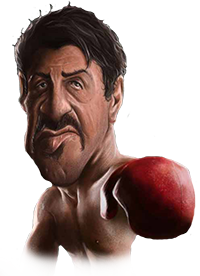
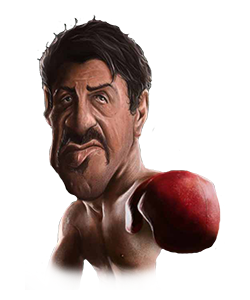
Added new changes to select menu

diff --git a/Project 2 Game/Project 2 Game/main.py b/Project 2 Game/Project 2 Game/main.py
@@ -202,18 +202,21 @@ pawns =     {1:pawnload('Images/Blue.png'), 2:pawnload('Images/Red.png'), 3:pawn
 dice =      {1:diceload('Images/Die-1.png'), 2:diceload('Images/Die-2.png'), 3:diceload('Images/Die-3.png'), 4:diceload('Images/Die-4.png'), 5:diceload('Images/Die-5.png'), 6:diceload('Images/Die-6.png')}
 playerImages = {1:playerload('Images/mike.png'), 2:playerload('Images/paquiao.png'), 3:playerload('Images/mohammed.png'), 4:playerload('Images/rocky.png')}
 boardtiles = tiles()
-players =  [Player("Mohammed Ali",100, 15, PlayerCards.MohammedAli,boardtiles[0],"card__mohammed_ali.png", "mohammed.png", "mohammed.png"),
-            Player("Manny Pecquiao",100, 15, PlayerCards.MannyPecquiao,boardtiles[0],"card__manny_pecquiao.png","face__manny_pecquiao.jpg", "paquiao.png"),
-            Player("Mike Tysen",100, 15, PlayerCards.MikeTysen,boardtiles[0],"card__mike_tysen.png","face__mike_tysen.jpg", "mike.png"),
-            Player("Rocky Belboa",100,15,PlayerCards.RockyBelboa,boardtiles[0],"card__rocky_belboa.png","face__rocky_belboa.jpg", "rocky.png")]
+players =  [Player("Mohammed Ali",100, 15, PlayerCards.MohammedAli,boardtiles[0],"card__mohammed_ali.png", "mohammed.png", "muhammed_ali.png", "MuhammedGlow.png"),
+            Player("Manny Pecquiao",100, 15, PlayerCards.MannyPecquiao,boardtiles[0],"card__manny_pecquiao.png","face__manny_pecquiao.jpg", "paquiao.png", "PecquiaoGlow.png"),
+            Player("Mike Tysen",100, 15, PlayerCards.MikeTysen,boardtiles[0],"card__mike_tysen.png","face__mike_tysen.jpg", "mike.png", "MikeGlow.png"),
+            Player("Rocky Belboa",100,15,PlayerCards.RockyBelboa,boardtiles[0],"card__rocky_belboa.png","face__rocky_belboa.jpg", "rocky.png", "RockyGlow.png")]
 
 #Load all images from the Player class
 playerImageCardDict = {}
 playerImageFaceDict = {}
+playerImageFighterDict = {}
+PlayerImageFighterSelectedDict = {}
 for player in players:
     playerImageCardDict.update({player.Name: pygame.transform.smoothscale(pygame.image.load("Images\\" + player.ImageCard), (250,300))})
     playerImageFaceDict.update({player.Name: pygame.transform.smoothscale(pygame.image.load("Images\\" + player.ImageFace), (250,300))})
-
+    playerImageFighterDict.update({player.Name: pygame.transform.smoothscale(pygame.image.load("Images\\" + player.ImageFighter), (150,200))})
+    PlayerImageFighterSelectedDict.update({player.Name: pygame.transform.smoothscale(pygame.image.load("Images\\" + player.ImageFighterSelected), (150,200))})
 #Define entities so that it can also be called again to reset all values such as the selections
 
 #Draw all player names on the screen
@@ -308,11 +311,14 @@ while gameIsRunning:
         label = fontSize(35, "Brush").render("Choose your fighter", 1, (255,0,0))
         screen.blit(label, (screen.get_rect().centerx / 2, 150))
         
-        if latestSelectedChar != None:
-            screen.blit(playerImageFaceDict[latestSelectedChar.Name],(100,300)) #Image of the character
-            screen.blit(playerImageCardDict[latestSelectedChar.Name],(350,300)) #Image of the score card
-            
+        #if latestSelectedChar != None:
+        #    screen.blit(playerImageFaceDict[latestSelectedChar.Name],(100,300)) #Image of the character
+        #    screen.blit(playerImageCardDict[latestSelectedChar.Name],(350,300)) #Image of the score card
+    
+           
+
         for entity in entities:
+            selectScreen.displayPlayers(screen, players, playerImageFighterDict, PlayerImageFighterSelectedDict, entities[0])    
             selectScreen.drawOptions(entity)
             if botChosen == True:
                 selectchar = fontSize(25, None).render("Make sure a bot is selected", 1,(255,0,0))
@@ -341,7 +347,6 @@ while gameIsRunning:
                             if not players[option.id] in selectedCharacters and selectedAmountBots != None and len(selectedCharacters) < (selectedAmountBots.id - len(players) + 1): 
                                 if len(selectedCharacters) == 0: #Assign first selection to yourChar
                                     yourChar = players[option.id] #Set yourChar to the selected player
-                                
                                 latestSelectedChar = players[option.id]
                                 charChosen = False
                                 selectedCharacters.append(latestSelectedChar) #Add the selected character to the list

diff --git a/Project 2 Game/Project 2 Game/selectScreen.py b/Project 2 Game/Project 2 Game/selectScreen.py
@@ -44,16 +44,29 @@ class selectScreen:
     #Make the player labels
     def makePlayerLabels(players, Option, font, screen):
         playerLabels = []
-        playerLabelVector = {"x": 100,"y": 200}#x,y coordinates on the screen for the label to be displayed
+        playerLabelVector = {"x": 20,"y": 400}#x,y coordinates on the screen for the label to be displayed
         generateID = 0 #Generate an ID for each player
         for x in players:
             playerLabels.append(Option(x.Name, (playerLabelVector["x"], playerLabelVector["y"]), font, screen, generateID))
             generateID += 1
-            playerNameRectWidth = len(x.Name) * 15 
+            #playerNameRectWidth = len(x.Name) * 15 
             if playerLabelVector["x"] > 600:
                 playerLabelVector["x"] = 50
                 playerLabelVector["y"] += 50
             else:
-                playerLabelVector["x"] += playerNameRectWidth
+                playerLabelVector["x"] += 200
         return (playerLabels, generateID)
         
+
+    def displayPlayers(screen, players, playerImageFighterDict, PlayerImageFighterSelectedDict, characterSelected): 
+        position = [20, 200]
+        for player in players:
+            if characterSelected.selected:
+                screen.blit(PlayerImageFighterSelectedDict[player.Name], (position[0], position[1]))
+            else:
+                screen.blit(playerImageFighterDict[player.Name], (position[0], position[1]))
+            position[0] += 200
+
+    #def test(player, playerImageFighterDict, screen):
+    #    position = player.pos[1] - 200
+    #    screen.blit(playerImageFighterDict[player.text], (player.pos[0], position))

diff --git a/Project 2 Game/Project 2 Game/Player.py b/Project 2 Game/Project 2 Game/Player.py
@@ -1,6 +1,6 @@
 import pygame
 class Player:
-    def __init__(self,name,health,condition,card,tile, imagecard="placeholder_253_300.png", imageface="placeholder_253_300.png", imagefighter = "placeholder_253_300.png"):
+    def __init__(self,name,health,condition,card,tile, imagecard="placeholder_253_300.png", imageface="placeholder_253_300.png", imagefighter = "placeholder_253_300.png", imagefighterselected = "placeholder_253_300.png"):
         self.Name = name
         self.Health = health
         self.Condition = condition
@@ -9,6 +9,7 @@ class Player:
         self.ImageCard = imagecard
         self.ImageFace = imageface
         self.ImageFighter = imagefighter
+        self.ImageFighterSelected = imagefighterselected
     
     def CalculateHealth(damage):
         return self.Health - damage
